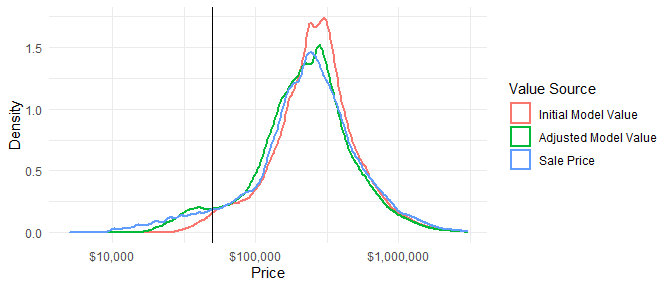
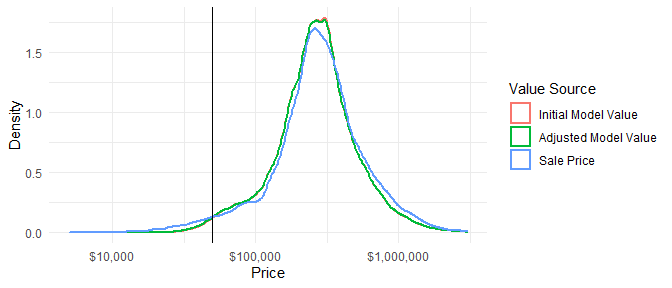
Update README

diff --git a/README.md b/README.md
@@ -259,7 +259,7 @@ districts](https://gitlab.com/ccao-data-science---modeling/models/ccao_res_avm/-
 and many others. The features in the table below are the ones that made
 the cut. They’re the right combination of easy to understand and impute,
 powerfully predictive, and well-behaved. Most of them are in use in the
-model as of 2021-01-14.
+model as of 2021-01-16.
 
 | Feature Name                      | Category       | Type        | Possible Values                                                                                 |
 | :-------------------------------- | :------------- | :---------- | :---------------------------------------------------------------------------------------------- |
@@ -478,16 +478,18 @@ runs a much simpler second-pass model on the predicted values from
 and is responsible for correcting any deficiencies in the first model’s
 predictions. Specifically, post-modeling will:
 
-1.  Shift the distribution of predicted values for each neighborhood and
-    modeling group (single- vs multi-family) such that its median sale
+1.  Shift distributions of predicted values such that their median sale
     ratio (predicted value / actual sale value) moves toward 1. This is
-    done by applying a neighborhood and modeling group-specific
-    percentage multiplier to all properties. This percentage multiplier
-    is capped at 40%. This is done to correct some of the modeling bias
-    caused by [ongoing data issues](#ongoing-issues), as well as prevent
-    broad over- or under-assessment.
+    done by applying a percentage multiplier to **all properties**
+    within a neighborhood, modeling group, and sale price quartile. This
+    percentage multiplier is capped at 40% and requires a minimum number
+    of sales (20) within each adjustment group. This is done to correct
+    some of the modeling bias caused by [ongoing data
+    issues](#ongoing-issues), as well as prevent broad over- or
+    under-assessment. Only a small proportion of all properties receive
+    this adjustment.
 
-2.  Alter assessed values for properties with sales in the last seven
+2.  Alter assessed values for properties with sales in the last two
     years if and only if their sale ratio falls outside specific
     thresholds. If a property’s sale ratio (predicted value / actual
     sale value) is less than 0.7 or greater than 2, its predicted value
@@ -531,7 +533,7 @@ a home improvement exemption, the property will be valued as if the new
 bedroom does not exist until the exemption expires and as long as the
 increase in valuation is less than $75,000.
 
-The exemption expires after 4 years or until the next assessment cycle,
+The exemption expires after 4 years or after the next assessment cycle,
 whichever is longer. For example, an exemption received in 2016 for a
 property in Northfield (with assessment years 2016, 2019, and 2022) will
 last 6 years (our system updates the property characteristics in 2021,
@@ -548,10 +550,14 @@ characteristics do not accurately reflect their sale price.
 To fix this, we [developed
 code](https://ccao-data-science---modeling.gitlab.io/packages/ccao/reference/chars_update.html)
 to update the characteristics of properties with home improvement
-exemptions. This update occurs ***only when training the model, not when
-actually valuing properties***. In other words, we update our
-sales/training data to include the characteristics at the time of sale,
-but value exempt properties as if their characteristics haven’t changed.
+exemptions. This code is used to:
+
+1.  Update sales data so that characteristic improvements are included
+    when training the model.
+2.  Update and then value properties **with improvements** to see if the
+    improvements add more value than the $75,000 statutory limit. If
+    they do, then `(improved_value - unimproved_value) - 75000` is added
+    to the predicted market value of the unimproved property.
 
 Updating this data is complicated and imperfect (see [ongoing
 issues](#ongoing-issues)), so if properties with an active home
@@ -602,10 +608,10 @@ modeling codebase:
 
 # Ongoing Issues
 
-The CCAO faces a number of ongoing issues which can contribute to poor
-modeling outcomes. Some of these issues are in the process of being
-solved; others are less tractable. We list them here for the sake of
-transparency and to provide a sense of the challenges we face.
+The CCAO faces a number of ongoing issues which make modeling difficult.
+Some of these issues are in the process of being solved; others are less
+tractable. We list them here for the sake of transparency and to provide
+a sense of the challenges we face.
 
 ### Data Quality and Integrity
 
@@ -670,19 +676,32 @@ do our best to [remove non-arms-length sales](#representativeness), but
 it’s nearly impossible to know for certain that every transaction is
 valid.
 
-##### Purposeful Obfuscation
+##### Incentives Not to Disclose Accurate Information
 
-Occasionally, people try to hide or alter their property characteristics
-in order to change their assessed value. Typically this takes the form
-of changing their [property
-class](https://prodassets.cookcountyassessor.com/s3fs-public/form_documents/classcode.pdf).
-However, property class has no impact on predictions from our model.
+The Cook County property tax system is complex and can sometimes create
+perverse incentives.
 
-Falsely altering other characteristics, such as square footage, may
-change an assessed value. However, doing so has negative consequences
-for neighbors and similar properties, as high sales on homes with
-incorrectly reported characteristics can upwardly bias the model,
-resulting in over-assessment.
+For example, most property owners want their property taxes to be as low
+as possible, and are thus disincentivized from reporting characteristic
+errors which could raise their assessed value. Conversely, if a property
+owner plans to sell their home on a listing website, then they have a
+strong incentive (the highest possible sale price) to ensure the website
+accurately reflects their property’s characteristics. Listing websites
+know this and offer easy ways to self-update property attributes.
+
+Additionally, the assessment system has a built-in number of “hard
+boundaries” such as property class and assessor neighborhood. These
+boundaries create the (mis)perceived incentive to slightly alter the
+characteristics of marginal properties. For example, subtracting 10
+square feet from a property’s total footprint in order to end up in a
+different property class. In actuality, property class has no impact on
+predictions from our models.
+
+Falsely altering or not reporting property characteristics may change an
+assessed value, but it also has negative consequences for neighbors and
+similar properties. High sales on homes with incorrectly reported
+characteristics can upwardly bias the model, resulting in
+over-assessment for others.
 
 ### Heterogeneity and Extremes
 
@@ -844,13 +863,13 @@ not reflect the current state of the model.
 More traditionally, we use R<sup>2</sup>, root-mean-squared-error
 (RMSE), mean absolute error (MAE), and mean absolute percentage error
 (MAPE) to gauge overall model performance and fit. Overall model
-performance on the [test set](#data-used) as of 2021-01-14 is shown in
+performance on the [test set](#data-used) as of 2021-01-16 is shown in
 the table below and generally stays within this range.
 
 | Model Type | R<sup>2</sup> | RMSE     | MAE     | MAPE |
 | :--------- | ------------: | :------- | :------ | :--- |
-| Linear     |          0.76 | $157,511 | $91,514 | 29%  |
-| LightGBM   |          0.83 | $131,515 | $69,659 | 24%  |
+| Linear     |          0.76 | $157,501 | $91,506 | 29%  |
+| LightGBM   |          0.83 | $131,539 | $69,507 | 24%  |
 
 **Q: How often does the model change?**
 
